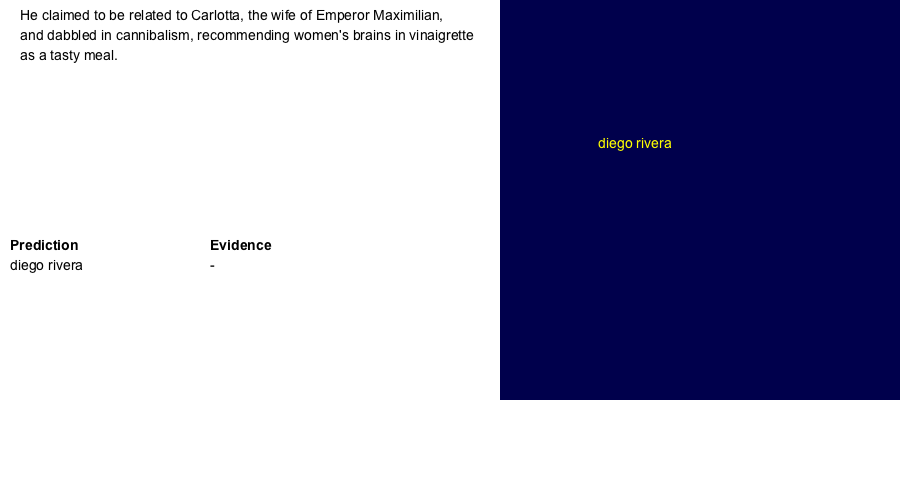
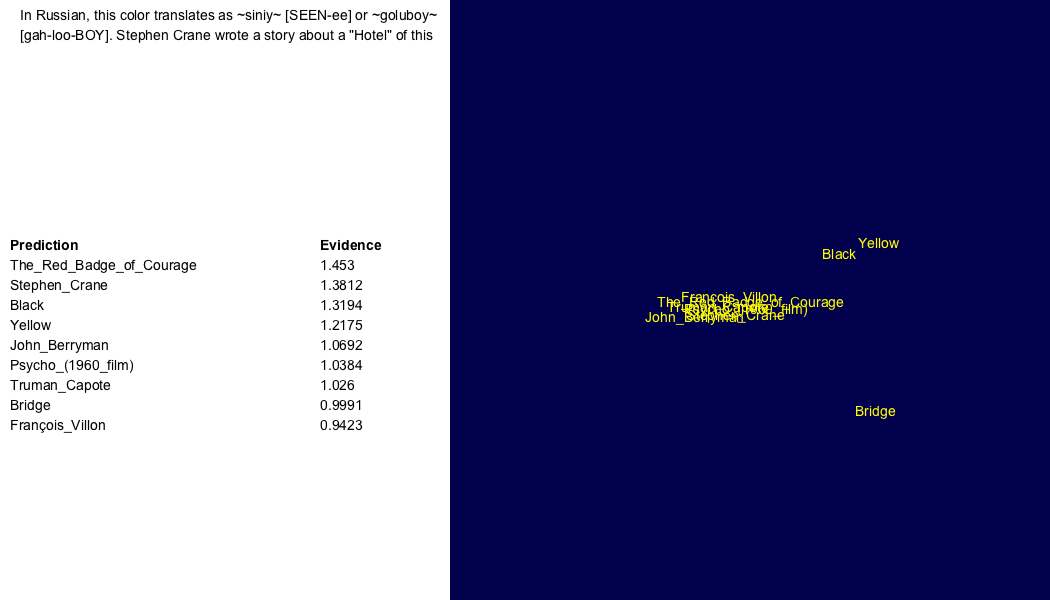
More frames, and shift post pca

diff --git a/visualization.py b/visualization.py
@@ -187,6 +187,7 @@ def visualize( guesses_data=None, cached_wikipedia=None, w2vmodel=None, question
 			# print('frame')
 			frames.append( frame )
 			question_text = questions_lookup[qnum].text
+			print('Answer: ' + questions_lookup[qnum].answer)
 			question_text_so_far = ''
 			for m in range(0,sentence):
 				question_text_so_far += question_text[m] + ' '
@@ -226,21 +227,12 @@ def visualize( guesses_data=None, cached_wikipedia=None, w2vmodel=None, question
 				else:
 					print('nan vector ' + answer)
 
-			# shift vectors to center around top guess
-			top_guess = numpy.copy( vectors[0] )
-
-			# add a strut to force the mean to be the top guess
-			strut = []
-			for x in range( 0, len(top_guess) ):
-				sum_column = 0
-				for vector in vectors:
-					sum_column += vector[x]
-				strut.append( top_guess[x] * ( len(vectors) + 1 ) - sum_column )
-			# strut = numpy.subtract( numpy.multiply( top_guess, len(vectors ) ), numpy.sum( vectors[1:] ) )
-			vectors.append( strut )
 			vectors2d = reduce_to_2d(numpy.array(vectors))
-			vectors2d = vectors2d[:-1].copy() # remove strut
-			# print( vectors2d )
+
+			# shift vectors to center around top guess
+			top_guess = numpy.copy( vectors2d[0] )
+			for k in range(0, len(vectors2d)):
+				vectors2d[k] = numpy.subtract( vectors2d[k], top_guess )
 
 			# add 2d vector to each guess info array
 			for k in range(0, len(vectors2d)):
